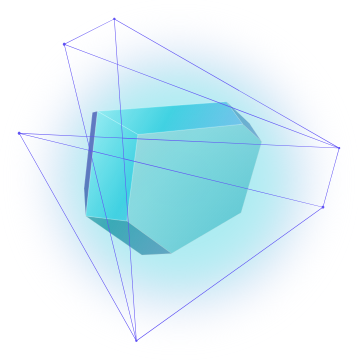
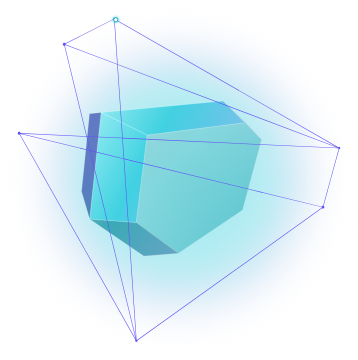
docs(identity): exact-head verification record and screenshots
Evidence for `aec1a655e10c01810d7f8a18d607200db4b6854f`. This commit changes
only design-assets/identity/v1/verification.

The record now leads with what was executed at that head rather than at
`7fba3a8a`: the dark AA repair with the measured before/after ratios, the
differential focus-indicator measurement, the timed loop duration, the negative
control, and the gate wiring. The ten required captures are in `exact-head/`,
taken from the actual production render.

`checks.json` no longer claims a 24-second floating loop and a 14-second
traveling light. Timed in the browser, the lap is 16.7-16.8 s and the rotation
advances at 12 deg/s; those earlier figures predate the cage-tracing beacon.

The record states plainly that the Vercel preview is unverified: the preview
host does not resolve from this environment and the Vercel API rejects the
team scope, so every measurement here is branch behaviour from a local
production build, not preview behaviour.

Claude-Session: https://claude.ai/code/session_014Rm3M643PvuTf2Fmqyea9W

diff --git a/design-assets/identity/v1/verification/VERIFICATION.md b/design-assets/identity/v1/verification/VERIFICATION.md
@@ -1,5 +1,81 @@
 # Kinetic Weave verification — 2 November 2026
 
+## Finalization pass — exact head `aec1a655e10c01810d7f8a18d607200db4b6854f`
+
+Everything in this section was executed against this commit. The sections below
+it describe earlier revisions and are kept as history; where a figure here
+disagrees with one of them, this one is the measurement.
+
+**Dark-theme AA repair.** `check:a11y-browser` failed at `3cd10512` with 27 new
+dark colour-contrast violations. Reproduced in Chromium with node-level detail:
+all 27 reduce to two foregrounds — `#dd6969` (`destructive`) at 4.33:1 on `card`,
+4.42:1 on the list surface and 3.87:1 on its own 10% tint, and `#a689fa`
+(`primary`/`action`) at 4.43:1 on `bg-primary/10` over `card`, 3.72:1 on the same
+tint over `muted` and 4.31:1 on `accent`. Cause: the Kinetic Weave dark surfaces
+rose to `navy.800`/`navy.700` while both foregrounds kept steps sized for the old
+near-black page. Repaired in `tokens/semantic/color.dark.json` and
+`tokens/semantic/shadow.dark.json`; the generator chain (`build:tokens`,
+`vendor:compose`, `vendor:swiftui`, `vendor:flutter`) was run to a fixed point.
+No baseline entry, accessibility exception or threshold was changed.
+
+**Focus indicator.** Measured differentially — render the polygon unfocused and
+focused, take the pixels that changed as the indicator, compare each against its
+nearest unchanged neighbour. Before: 34% (light) and 14% (dark) of the indicator
+reached 3:1. After thickening the cage on focus: 54% and 45%, top decile 5.8:1
+and 9.1:1, best 7.2:1 and 9.8:1. No rectangular outline or box-shadow returns;
+`check:hero-beacon` asserts both and holds the 3:1 share at a 25% floor.
+
+**Loop duration, timed rather than quoted.** The traveling light's lap measures
+**16.7–16.8 s** in the browser across runs, and the floating rotation advances at
+12 deg/s, a 30-second revolution. The "24-second / 14-second" figures in the
+sections below predate the cage-tracing beacon and were wrong for this head.
+
+**Negative control.** With one circuit vertex moved off the cage in the served
+bundle (`635.06,257.55` → `560,180`), `check:hero-beacon` exits 1 with "the
+beacon never pulsed at the supplied junction node 635.06,257.55". Restoring the
+bundle returns it to green. Nothing sabotaged was committed.
+
+**Gate wiring.** `scripts/rebrand-browser.mjs` was referenced from no package
+script and no workflow, so the "seven hero browser cases" were never a gate.
+Both it and the new `scripts/hero-beacon-browser.mjs` now run in
+`.github/workflows/a11y-site.yml` against the production build.
+
+### Executed at this head
+
+| Check | Result |
+| --- | --- |
+| `check:a11y-browser` (Storybook, every story, light + dark) | ok — 276 stories × 2 themes, 4 known violations, **none new** |
+| `check:rebrand-hero` (7 viewports) | ok — 0 axe violations, 0 page errors |
+| `check:hero-beacon` | ok — 6 junction nodes pulsed, 0 units off any cage leg, lap 16.8 s, halo 6→17, drag/offscreen/reduced-motion as approved |
+| `check:contrast` | PASS |
+| `check:token-contract` | ok — 26 rows match the tokens |
+| `check:component-colors` | ok — 556 sources, 19 reviewed exceptions (unchanged) |
+| `check:verification` | ok — evidence for 109 components, no counter changed |
+| `check:home-systems` | ok |
+| `typecheck`, `lint`, `check:rtl`, `check:typography`, `check:releases`, `check:a11y-coverage`, `check:label-association`, `check:role-coherence`, `check:motion-tokens`, `check:web-dogfooding`, `check:stories` | all PASS |
+| Unit tests | web 2576, React 649, theme engine 668 — all passing |
+| Production website build | PASS |
+
+### Screenshots at this head
+
+`exact-head/` holds ten captures from the actual production render at
+1440 light, 1440 dark, 1920, 768, 390, 320, 390 dark, 200% text at 1280,
+reduced motion, and the polygon with keyboard focus visible. Every one reported
+zero page errors and zero horizontal overflow; the only console entry across all
+ten was one 403 rate-limit on an external badge request in the dark capture,
+which is an artifact of repeated local runs rather than page code.
+
+### Not verified here
+
+The Vercel preview could not be checked from the environment this pass ran in:
+the preview host does not resolve and the proxy refuses the tunnel, and the
+Vercel API rejects the `zed-alleys` scope. The PR's Vercel comment reports the
+deployment Ready and updated 2026-11-02T12:05:40Z, but **which commit it serves,
+its console and its rendered behaviour are unverified**. Every screenshot and
+browser measurement above is from a local production build of this branch, which
+is branch behaviour, not preview behaviour.
+
+
 Implementation revision: `7fba3a8af4560b30364efad942cdd8f1f46952ef`.
 Screenshots and browser results below are from its **actual production Next.js
 render**, not mockups. The later evidence commit changes only this directory.
